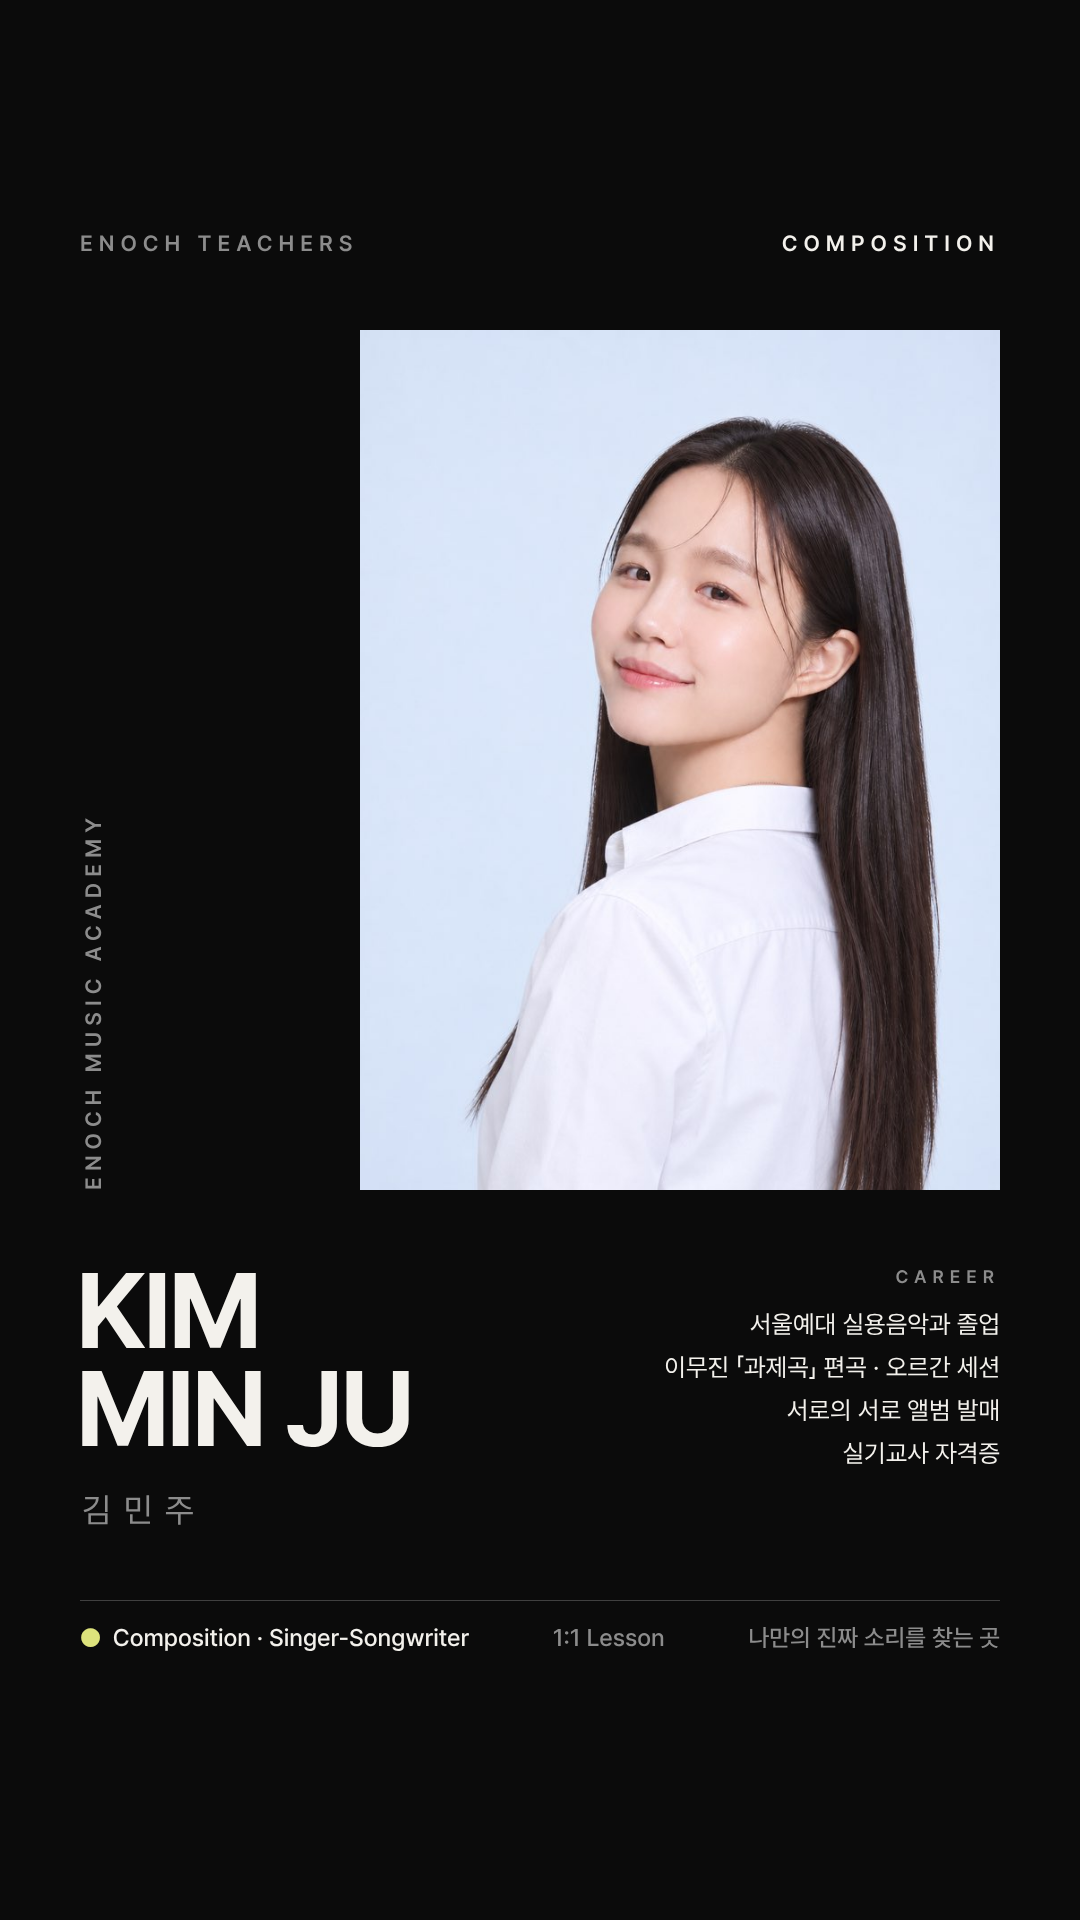
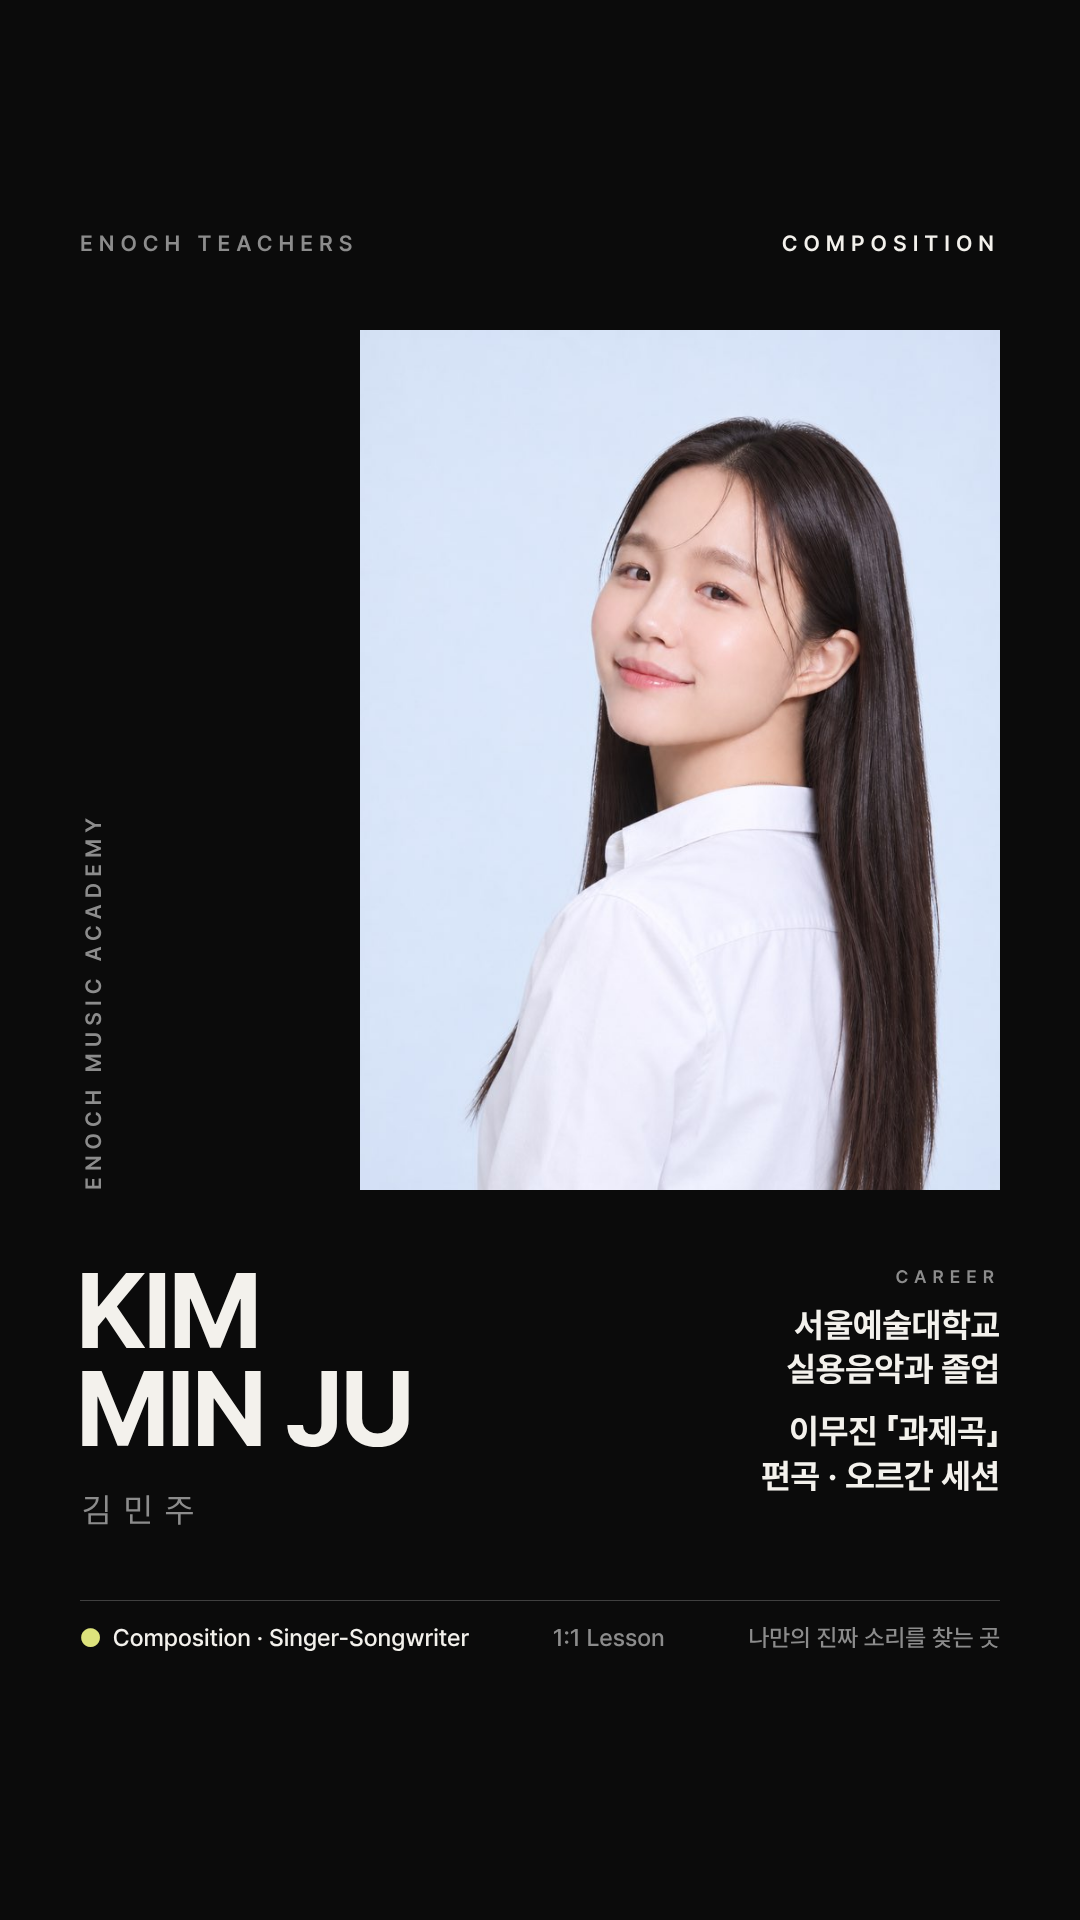
강사소개 김민주 스토리: 이력 전체 + 서울예대 · 이무진 강조
Claude-Session: https://claude.ai/code/session_01HGbZvgMeYrbU7mY8bwfjyb

Changed region(s): [[0.6417, 0.6562, 0.9472, 0.7812]]

diff --git a/output/강사소개_김민주/story.html b/output/강사소개_김민주/story.html
@@ -33,9 +33,14 @@
 .sec li i{font-style:normal;color:#8C8C8C;font-weight:300}
 .dt .bt{position:absolute;left:80px;right:80px;top:1650px;padding-top:22px;display:flex;justify-content:space-between;font-size:22px;border-top:1px solid rgba(255,255,255,.22)}
 
-#D .body{top:520px}
-#D .sec{padding:36px 0}
-#D .sec li{font-size:30px;line-height:1.55}
+#D .hl{position:absolute;left:80px;right:80px;top:430px}
+#D .hl div{padding:30px 0;border-bottom:1px solid rgba(255,255,255,.22)}
+#D .hl b{display:block;font-size:52px;font-weight:700;letter-spacing:-1.5px;line-height:1.2}
+#D .hl span{display:block;font-size:30px;color:#B9B4AA;margin-top:10px}
+#D .body{top:850px}
+#D .sec{padding:28px 0}
+#D .sec li{font-size:28px;line-height:1.55}
+#R .cv .hi{display:block;font-size:34px;font-weight:700;color:#F3F1EC;line-height:1.3;margin-bottom:18px}
 </style></head><body>
 <section class="s" id="R">
   <div class="top"><span class="lab g">ENOCH TEACHERS</span><span class="lab">COMPOSITION</span></div>
@@ -43,13 +48,14 @@
   <div class="ph"></div>
   <div class="en">KIM<br>MIN JU</div>
   <div class="ko g">김민주</div>
-  <div class="cv"><span class="lab g">CAREER</span>서울예대 실용음악과 졸업<br>이무진 「과제곡」 편곡 · 오르간 세션<br>서로의 서로 앨범 발매<br>실기교사 자격증</div>
+  <div class="cv"><span class="lab g">CAREER</span><span class="hi">서울예술대학교<br>실용음악과 졸업</span><span class="hi">이무진 「과제곡」<br>편곡 · 오르간 세션</span></div>
   <div class="bt"><span><span class="lime">●</span>&nbsp; Composition · Singer-Songwriter</span><span class="g">1:1 Lesson</span><span class="g">나만의 진짜 소리를 찾는 곳</span></div>
 </section>
 <section class="s dt" id="D">
   <div class="top"><span class="lab g">ENOCH TEACHERS — COMPOSITION</span><span class="lab g">CAREER</span></div>
   <div class="nm">KIM MIN JU<small>김민주</small></div>
-  <div class="body"><div class="sec"><span class="lab g">EDUCATION</span><ul><li>서울예술대학교 <i>실용음악과 졸업</i></li><li>SJA 실용음악과 <i>학사 졸업</i></li><li>실기교사 <i>자격증 취득</i></li></ul></div><div class="sec"><span class="lab g">WORKS</span><ul><li>이무진 「과제곡」 <i>편곡 · 유튜브 영상 오르간 세션 · 코러스</i></li><li>진화영 싱글 「빈 밤」 <i>피아노 레코딩</i></li><li>표표 「Boat」 <i>피아노 레코딩</i></li><li>서로의 서로 「그 때 그 약속은」 · 「그 때 그 노래가」 <i>발매</i></li></ul></div><div class="sec"><span class="lab g">LIVE</span><ul><li>언플러그드 · 웨스트브릿지 · 롤링홀 등 <i>클럽 공연 기획 · 아티스트 참여</i></li></ul></div></div>
+  <div class="hl"><div><b>서울예술대학교 실용음악과 졸업</b></div><div><b>이무진 「과제곡」 편곡</b><span>유튜브 「과제곡」 영상 오르간 세션 · 코러스 참여</span></div></div>
+  <div class="body"><div class="sec"><span class="lab g">EDUCATION</span><ul><li>SJA 실용음악과 <i>학사 졸업</i></li><li>실기교사 <i>자격증 취득</i></li></ul></div><div class="sec"><span class="lab g">WORKS</span><ul><li>진화영 싱글 「빈 밤」 <i>피아노 레코딩</i></li><li>표표 「Boat」 <i>피아노 레코딩</i></li><li>서로의 서로 「그 때 그 약속은」 · 「그 때 그 노래가」 <i>발매</i></li></ul></div><div class="sec"><span class="lab g">LIVE</span><ul><li>언플러그드 · 웨스트브릿지 · 롤링홀 등 <i>클럽 공연 기획 · 아티스트 참여</i></li></ul></div><div class="sec"><span class="lab g">TEACHING</span><ul><li>은평생활문화센터 <i>소속 강사</i></li></ul></div></div>
   <div class="bt"><span><span class="lime">●</span>&nbsp; Composition · Singer-Songwriter</span><span class="g">나만의 진짜 소리를 찾는 곳</span></div>
 </section>
 </body></html>

diff --git a/output/강사소개_김민주/build.py b/output/강사소개_김민주/build.py
@@ -7,6 +7,9 @@ BASE = os.path.join(HERE, '..', '강사소개_한상희')
 EDU = ['서울예술대학교 <i>실용음악과 졸업</i>', 'SJA 실용음악과 <i>학사 졸업</i>', '실기교사 <i>자격증 취득</i>']
 WORK = ['이무진 「과제곡」 <i>편곡 · 유튜브 영상 오르간 세션 · 코러스</i>', '진화영 싱글 「빈 밤」 <i>피아노 레코딩</i>', '표표 「Boat」 <i>피아노 레코딩</i>', '서로의 서로 「그 때 그 약속은」 · 「그 때 그 노래가」 <i>발매</i>']
 LIVE = ['언플러그드 · 웨스트브릿지 · 롤링홀 등 <i>클럽 공연 기획 · 아티스트 참여</i>']
+TEACH = ['은평생활문화센터 <i>소속 강사</i>']
+EDU_S = ['SJA 실용음악과 <i>학사 졸업</i>', '실기교사 <i>자격증 취득</i>']
+WORK_S = WORK[1:]
 AW = []
 
 
@@ -58,7 +61,7 @@ open(os.path.join(HERE, 'feed.html'), 'w', encoding='utf-8').write(head + feed)
 s = open(os.path.join(BASE, 'story.html'), encoding='utf-8').read()
 sh = s[:s.index('</style>')]
 sh = sh.replace('강사 소개 한상희', '강사 소개 김민주').replace('한상희_01.jpg', '김민주_01.jpg').replace('background-position:55% 30%', 'background-position:50% 25%')
-sh += '\n#D .body{top:520px}\n#D .sec{padding:36px 0}\n#D .sec li{font-size:30px;line-height:1.55}\n'
+sh += '\n#D .hl{position:absolute;left:80px;right:80px;top:430px}\n#D .hl div{padding:30px 0;border-bottom:1px solid rgba(255,255,255,.22)}\n#D .hl b{display:block;font-size:52px;font-weight:700;letter-spacing:-1.5px;line-height:1.2}\n#D .hl span{display:block;font-size:30px;color:#B9B4AA;margin-top:10px}\n#D .body{top:850px}\n#D .sec{padding:28px 0}\n#D .sec li{font-size:28px;line-height:1.55}\n#R .cv .hi{display:block;font-size:34px;font-weight:700;color:#F3F1EC;line-height:1.3;margin-bottom:18px}\n'
 story = f'''</style></head><body>
 <section class="s" id="R">
   <div class="top"><span class="lab g">ENOCH TEACHERS</span><span class="lab">COMPOSITION</span></div>
@@ -66,13 +69,14 @@ story = f'''</style></head><body>
   <div class="ph"></div>
   <div class="en">KIM<br>MIN JU</div>
   <div class="ko g">김민주</div>
-  <div class="cv"><span class="lab g">CAREER</span>서울예대 실용음악과 졸업<br>이무진 「과제곡」 편곡 · 오르간 세션<br>서로의 서로 앨범 발매<br>실기교사 자격증</div>
+  <div class="cv"><span class="lab g">CAREER</span><span class="hi">서울예술대학교<br>실용음악과 졸업</span><span class="hi">이무진 「과제곡」<br>편곡 · 오르간 세션</span></div>
   <div class="bt"><span><span class="lime">●</span>&nbsp; Composition · Singer-Songwriter</span><span class="g">1:1 Lesson</span><span class="g">나만의 진짜 소리를 찾는 곳</span></div>
 </section>
 <section class="s dt" id="D">
   <div class="top"><span class="lab g">ENOCH TEACHERS — COMPOSITION</span><span class="lab g">CAREER</span></div>
   <div class="nm">KIM MIN JU<small>김민주</small></div>
-  <div class="body">{sec("EDUCATION", EDU, "lab g")}{sec("WORKS", WORK, "lab g")}{sec("LIVE", LIVE, "lab g")}</div>
+  <div class="hl"><div><b>서울예술대학교 실용음악과 졸업</b></div><div><b>이무진 「과제곡」 편곡</b><span>유튜브 「과제곡」 영상 오르간 세션 · 코러스 참여</span></div></div>
+  <div class="body">{sec("EDUCATION", EDU_S, "lab g")}{sec("WORKS", WORK_S, "lab g")}{sec("LIVE", LIVE, "lab g")}{sec("TEACHING", TEACH, "lab g")}</div>
   <div class="bt"><span><span class="lime">●</span>&nbsp; Composition · Singer-Songwriter</span><span class="g">나만의 진짜 소리를 찾는 곳</span></div>
 </section>
 </body></html>
